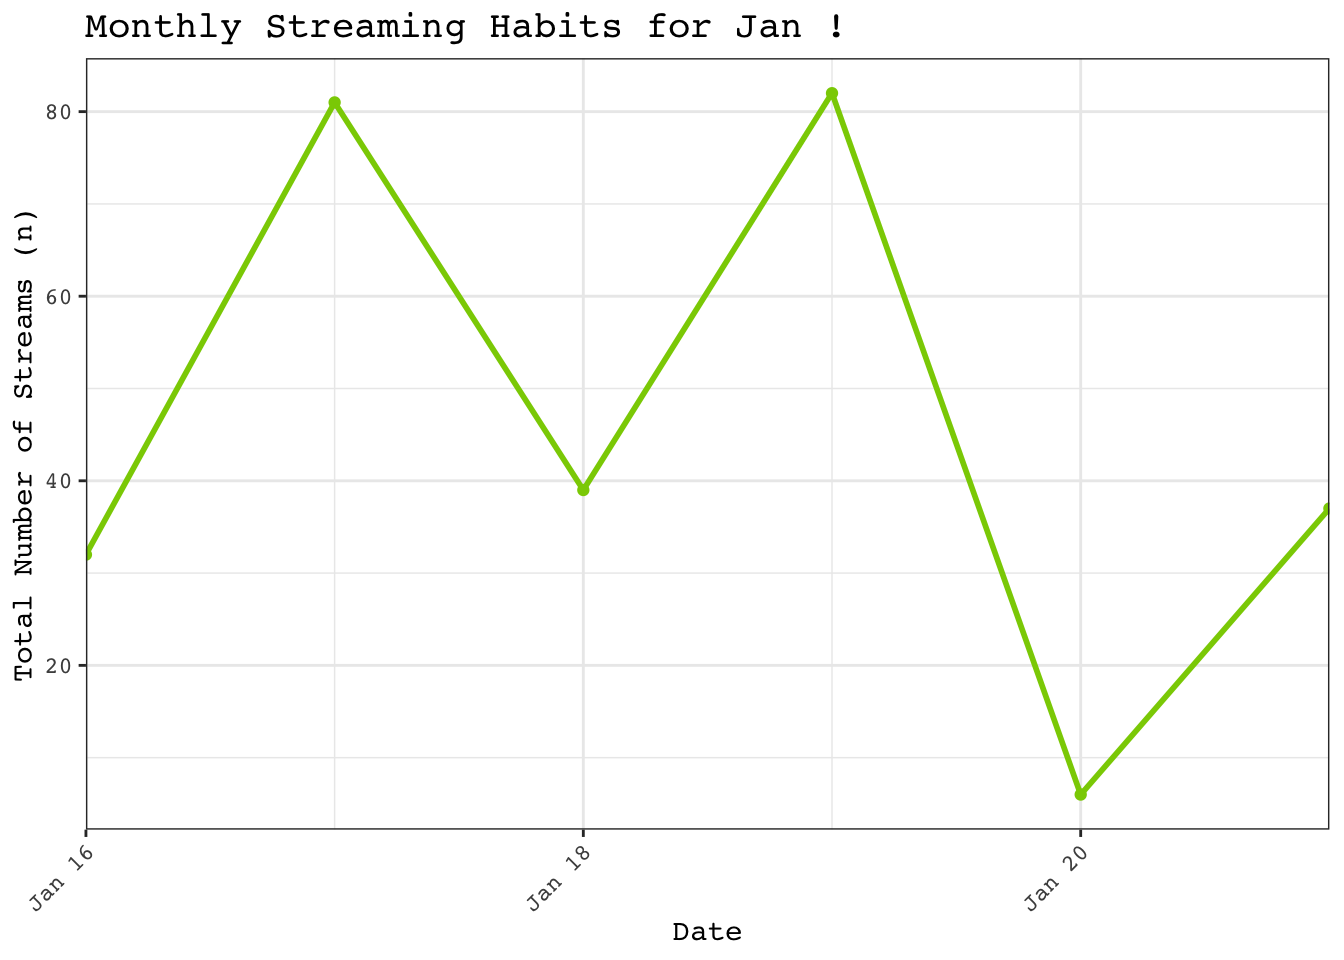
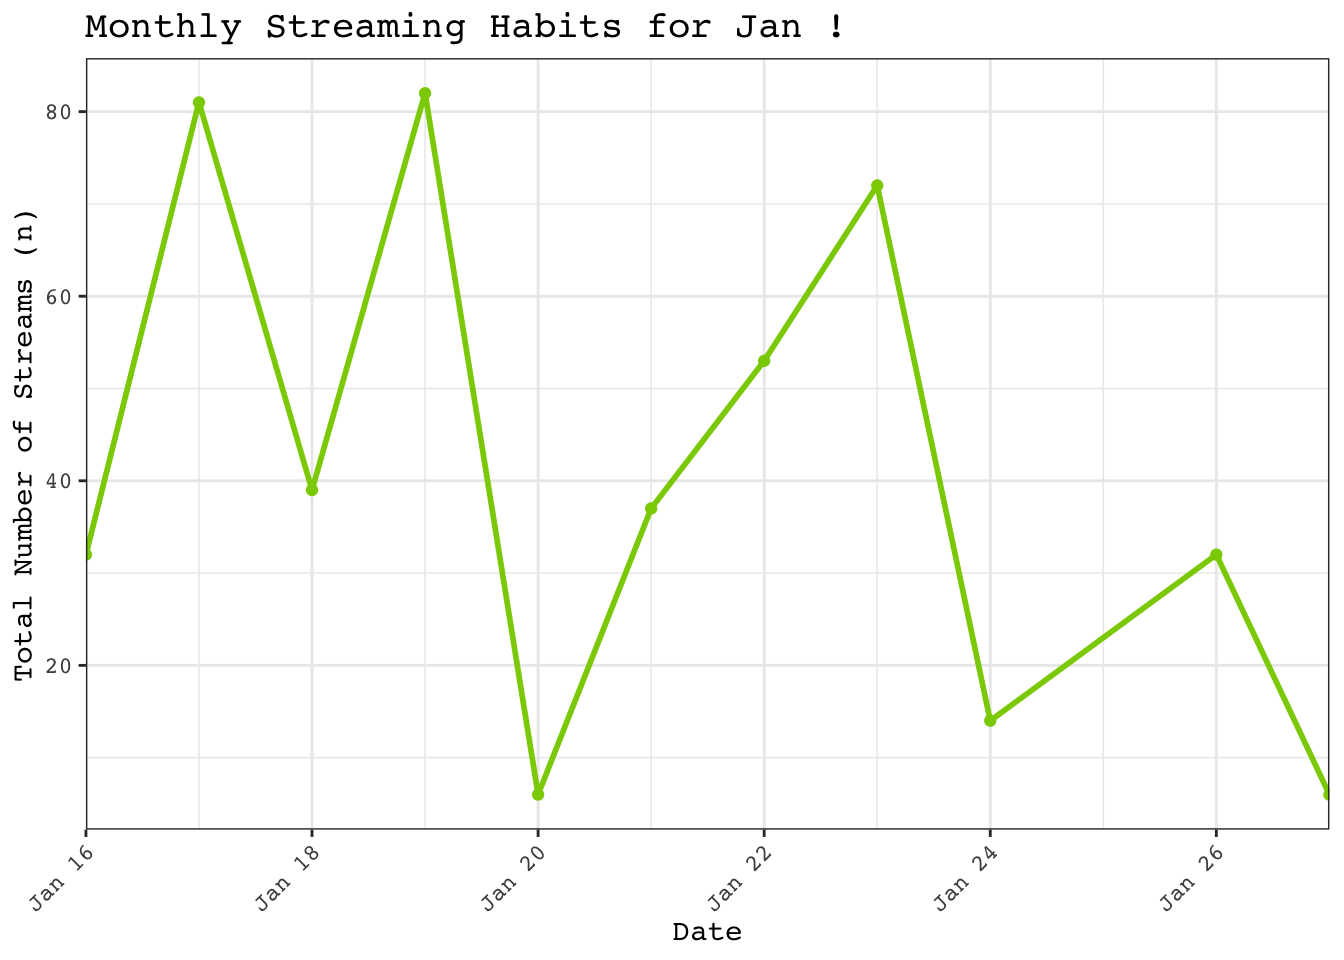
update visualizations

diff --git a/spotify_wrapped.html b/spotify_wrapped.html
@@ -242,7 +242,7 @@ pre > code.sourceCode > span > a:first-child::before { text-decoration: underlin
 <span id="cb8-6"><a href="#cb8-6" aria-hidden="true" tabindex="-1"></a><span class="fu">message</span>(<span class="fu">paste</span>(<span class="st">"You listened to"</span>, u_artists<span class="sc">$</span>total_unique_artists, <span class="st">"different artists in"</span>, u_artists<span class="sc">$</span>month, <span class="st">"!"</span>))</span></code><button title="Copy to Clipboard" class="code-copy-button"><i class="bi"></i></button></pre></div>
 </details>
 <div class="cell-output cell-output-stderr">
-<pre><code>You listened to 71 different artists in Jan !</code></pre>
+<pre><code>You listened to 91 different artists in Jan !</code></pre>
 </div>
 </div>
 <div class="cell">
@@ -257,7 +257,7 @@ pre > code.sourceCode > span > a:first-child::before { text-decoration: underlin
 <span id="cb10-7"><a href="#cb10-7" aria-hidden="true" tabindex="-1"></a></span>
 <span id="cb10-8"><a href="#cb10-8" aria-hidden="true" tabindex="-1"></a><span class="co"># Create a bar plot for the top 5 artists</span></span>
 <span id="cb10-9"><a href="#cb10-9" aria-hidden="true" tabindex="-1"></a><span class="fu">ggplot</span>(<span class="at">data =</span> top_5_artists, </span>
-<span id="cb10-10"><a href="#cb10-10" aria-hidden="true" tabindex="-1"></a>       <span class="fu">aes</span>(<span class="at">x =</span> <span class="fu">reorder</span>(artist, <span class="sc">-</span>total_streams), <span class="at">y =</span> total_streams)) <span class="sc">+</span></span>
+<span id="cb10-10"><a href="#cb10-10" aria-hidden="true" tabindex="-1"></a>       <span class="fu">aes</span>(<span class="at">x =</span> <span class="fu">reorder</span>(artist, total_streams), <span class="at">y =</span> total_streams)) <span class="sc">+</span></span>
 <span id="cb10-11"><a href="#cb10-11" aria-hidden="true" tabindex="-1"></a>  <span class="fu">geom_bar</span>(<span class="at">stat =</span> <span class="st">"identity"</span>, </span>
 <span id="cb10-12"><a href="#cb10-12" aria-hidden="true" tabindex="-1"></a>           <span class="at">fill =</span> <span class="st">"#8ACE00"</span>) <span class="sc">+</span></span>
 <span id="cb10-13"><a href="#cb10-13" aria-hidden="true" tabindex="-1"></a>  <span class="fu">labs</span>(<span class="at">x =</span> <span class="st">"Artist"</span>,</span>
@@ -266,11 +266,12 @@ pre > code.sourceCode > span > a:first-child::before { text-decoration: underlin
 <span id="cb10-16"><a href="#cb10-16" aria-hidden="true" tabindex="-1"></a>  <span class="fu">scale_x_discrete</span>(<span class="at">expand =</span> <span class="fu">c</span>(<span class="dv">0</span>, <span class="dv">0</span>)) <span class="sc">+</span></span>
 <span id="cb10-17"><a href="#cb10-17" aria-hidden="true" tabindex="-1"></a>  <span class="fu">scale_y_continuous</span>(<span class="at">expand =</span> <span class="fu">c</span>(<span class="dv">0</span>, <span class="dv">0</span>)) <span class="sc">+</span></span>
 <span id="cb10-18"><a href="#cb10-18" aria-hidden="true" tabindex="-1"></a>  <span class="fu">theme_bw</span>() <span class="sc">+</span></span>
-<span id="cb10-19"><a href="#cb10-19" aria-hidden="true" tabindex="-1"></a>  <span class="fu">theme</span>(<span class="at">axis.text.x =</span> <span class="fu">element_text</span>(<span class="at">angle =</span> <span class="dv">45</span>, <span class="at">hjust =</span> <span class="dv">1</span>, <span class="at">family =</span> <span class="st">"Courier"</span>),</span>
+<span id="cb10-19"><a href="#cb10-19" aria-hidden="true" tabindex="-1"></a>  <span class="fu">theme</span>(<span class="at">axis.text.x =</span> <span class="fu">element_text</span>(<span class="at">family =</span> <span class="st">"Courier"</span>),</span>
 <span id="cb10-20"><a href="#cb10-20" aria-hidden="true" tabindex="-1"></a>        <span class="at">axis.text.y =</span> <span class="fu">element_text</span>(<span class="at">family =</span> <span class="st">"Courier"</span>),</span>
 <span id="cb10-21"><a href="#cb10-21" aria-hidden="true" tabindex="-1"></a>        <span class="at">axis.title.x =</span> <span class="fu">element_text</span>(<span class="at">family =</span> <span class="st">"Courier"</span>),</span>
 <span id="cb10-22"><a href="#cb10-22" aria-hidden="true" tabindex="-1"></a>        <span class="at">axis.title.y =</span> <span class="fu">element_text</span>(<span class="at">family =</span> <span class="st">"Courier"</span>),</span>
-<span id="cb10-23"><a href="#cb10-23" aria-hidden="true" tabindex="-1"></a>        <span class="at">plot.title =</span> <span class="fu">element_text</span>(<span class="at">family =</span> <span class="st">"Courier"</span>, <span class="at">size =</span> <span class="dv">14</span>))</span></code><button title="Copy to Clipboard" class="code-copy-button"><i class="bi"></i></button></pre></div>
+<span id="cb10-23"><a href="#cb10-23" aria-hidden="true" tabindex="-1"></a>        <span class="at">plot.title =</span> <span class="fu">element_text</span>(<span class="at">family =</span> <span class="st">"Courier"</span>, <span class="at">size =</span> <span class="dv">14</span>)) <span class="sc">+</span></span>
+<span id="cb10-24"><a href="#cb10-24" aria-hidden="true" tabindex="-1"></a>  <span class="fu">coord_flip</span>()</span></code><button title="Copy to Clipboard" class="code-copy-button"><i class="bi"></i></button></pre></div>
 </details>
 <div class="cell-output-display">
 <div>
@@ -290,7 +291,7 @@ pre > code.sourceCode > span > a:first-child::before { text-decoration: underlin
 <span id="cb11-2"><a href="#cb11-2" aria-hidden="true" tabindex="-1"></a><span class="fu">message</span>(<span class="fu">paste</span>(<span class="st">"You listened to a total of"</span>, <span class="fu">nrow</span>(monthly_datasets[[i]]), <span class="st">"songs in"</span>, monthly_datasets[[i]]<span class="sc">$</span>month[<span class="dv">1</span>], <span class="st">"!"</span>))</span></code><button title="Copy to Clipboard" class="code-copy-button"><i class="bi"></i></button></pre></div>
 </details>
 <div class="cell-output cell-output-stderr">
-<pre><code>You listened to a total of 277 songs in Jan !</code></pre>
+<pre><code>You listened to a total of 454 songs in Jan !</code></pre>
 </div>
 </div>
 <div class="cell">
@@ -304,7 +305,7 @@ pre > code.sourceCode > span > a:first-child::before { text-decoration: underlin
 <span id="cb13-6"><a href="#cb13-6" aria-hidden="true" tabindex="-1"></a><span class="fu">message</span>(<span class="fu">paste</span>(<span class="st">"Out of those"</span>, <span class="fu">nrow</span>(monthly_datasets[[i]]), <span class="st">","</span>, u_tracks<span class="sc">$</span>total_unique_tracks, <span class="st">"were different songs !"</span>))</span></code><button title="Copy to Clipboard" class="code-copy-button"><i class="bi"></i></button></pre></div>
 </details>
 <div class="cell-output cell-output-stderr">
-<pre><code>Out of those 277 , 203 were different songs !</code></pre>
+<pre><code>Out of those 454 , 271 were different songs !</code></pre>
 </div>
 </div>
 <div class="cell">
@@ -319,7 +320,7 @@ pre > code.sourceCode > span > a:first-child::before { text-decoration: underlin
 <span id="cb15-7"><a href="#cb15-7" aria-hidden="true" tabindex="-1"></a></span>
 <span id="cb15-8"><a href="#cb15-8" aria-hidden="true" tabindex="-1"></a><span class="co"># Create a bar plot for the top 5 tracks</span></span>
 <span id="cb15-9"><a href="#cb15-9" aria-hidden="true" tabindex="-1"></a><span class="fu">ggplot</span>(<span class="at">data =</span> top_5_tracks, </span>
-<span id="cb15-10"><a href="#cb15-10" aria-hidden="true" tabindex="-1"></a>       <span class="fu">aes</span>(<span class="at">x =</span> <span class="fu">reorder</span>(track_name, <span class="sc">-</span>total_streams), <span class="at">y =</span> total_streams)) <span class="sc">+</span></span>
+<span id="cb15-10"><a href="#cb15-10" aria-hidden="true" tabindex="-1"></a>       <span class="fu">aes</span>(<span class="at">x =</span> <span class="fu">reorder</span>(track_name, total_streams), <span class="at">y =</span> total_streams)) <span class="sc">+</span></span>
 <span id="cb15-11"><a href="#cb15-11" aria-hidden="true" tabindex="-1"></a>  <span class="fu">geom_bar</span>(<span class="at">stat =</span> <span class="st">"identity"</span>, </span>
 <span id="cb15-12"><a href="#cb15-12" aria-hidden="true" tabindex="-1"></a>           <span class="at">fill =</span> <span class="st">"#8ACE00"</span>) <span class="sc">+</span></span>
 <span id="cb15-13"><a href="#cb15-13" aria-hidden="true" tabindex="-1"></a>  <span class="fu">labs</span>(<span class="at">x =</span> <span class="st">"Track Title"</span>,</span>
@@ -328,11 +329,12 @@ pre > code.sourceCode > span > a:first-child::before { text-decoration: underlin
 <span id="cb15-16"><a href="#cb15-16" aria-hidden="true" tabindex="-1"></a>  <span class="fu">scale_x_discrete</span>(<span class="at">expand =</span> <span class="fu">c</span>(<span class="dv">0</span>, <span class="dv">0</span>)) <span class="sc">+</span></span>
 <span id="cb15-17"><a href="#cb15-17" aria-hidden="true" tabindex="-1"></a>  <span class="fu">scale_y_continuous</span>(<span class="at">expand =</span> <span class="fu">c</span>(<span class="dv">0</span>, <span class="dv">0</span>)) <span class="sc">+</span></span>
 <span id="cb15-18"><a href="#cb15-18" aria-hidden="true" tabindex="-1"></a>  <span class="fu">theme_bw</span>() <span class="sc">+</span></span>
-<span id="cb15-19"><a href="#cb15-19" aria-hidden="true" tabindex="-1"></a>  <span class="fu">theme</span>(<span class="at">axis.text.x =</span> <span class="fu">element_text</span>(<span class="at">angle =</span> <span class="dv">45</span>, <span class="at">hjust =</span> <span class="dv">1</span>, <span class="at">family =</span> <span class="st">"Courier"</span>),  </span>
+<span id="cb15-19"><a href="#cb15-19" aria-hidden="true" tabindex="-1"></a>  <span class="fu">theme</span>(<span class="at">axis.text.x =</span> <span class="fu">element_text</span>(<span class="at">family =</span> <span class="st">"Courier"</span>),  </span>
 <span id="cb15-20"><a href="#cb15-20" aria-hidden="true" tabindex="-1"></a>        <span class="at">axis.text.y =</span> <span class="fu">element_text</span>(<span class="at">family =</span> <span class="st">"Courier"</span>),</span>
 <span id="cb15-21"><a href="#cb15-21" aria-hidden="true" tabindex="-1"></a>        <span class="at">axis.title.x =</span> <span class="fu">element_text</span>(<span class="at">family =</span> <span class="st">"Courier"</span>),</span>
 <span id="cb15-22"><a href="#cb15-22" aria-hidden="true" tabindex="-1"></a>        <span class="at">axis.title.y =</span> <span class="fu">element_text</span>(<span class="at">family =</span> <span class="st">"Courier"</span>),</span>
-<span id="cb15-23"><a href="#cb15-23" aria-hidden="true" tabindex="-1"></a>        <span class="at">plot.title =</span> <span class="fu">element_text</span>(<span class="at">family =</span> <span class="st">"Courier"</span>, <span class="at">size =</span> <span class="dv">14</span>))</span></code><button title="Copy to Clipboard" class="code-copy-button"><i class="bi"></i></button></pre></div>
+<span id="cb15-23"><a href="#cb15-23" aria-hidden="true" tabindex="-1"></a>        <span class="at">plot.title =</span> <span class="fu">element_text</span>(<span class="at">family =</span> <span class="st">"Courier"</span>, <span class="at">size =</span> <span class="dv">14</span>)) <span class="sc">+</span></span>
+<span id="cb15-24"><a href="#cb15-24" aria-hidden="true" tabindex="-1"></a>  <span class="fu">coord_flip</span>()</span></code><button title="Copy to Clipboard" class="code-copy-button"><i class="bi"></i></button></pre></div>
 </details>
 <div class="cell-output-display">
 <div>
@@ -373,7 +375,7 @@ pre > code.sourceCode > span > a:first-child::before { text-decoration: underlin
 <span id="cb18-6"><a href="#cb18-6" aria-hidden="true" tabindex="-1"></a><span class="fu">message</span>(<span class="fu">paste</span>(<span class="st">"Your lowest streaming day was"</span>, lowest_streaming_day<span class="sc">$</span>md_date, <span class="st">"with"</span>, lowest_streaming_day<span class="sc">$</span>n_songs, <span class="st">"songs streamed !"</span>))</span></code><button title="Copy to Clipboard" class="code-copy-button"><i class="bi"></i></button></pre></div>
 </details>
 <div class="cell-output cell-output-stderr">
-<pre><code>Your lowest streaming day was Jan 20 with 6 songs streamed !</code></pre>
+<pre><code>Your lowest streaming day was Jan 27 with 6 songs streamed !</code></pre>
 </div>
 </div>
 <div class="cell">
